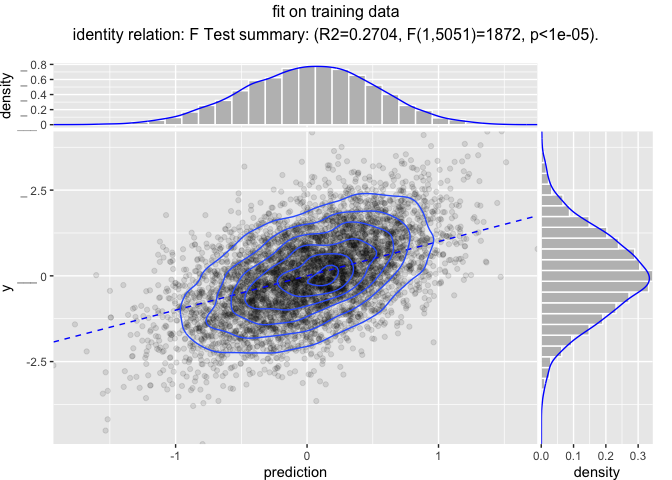
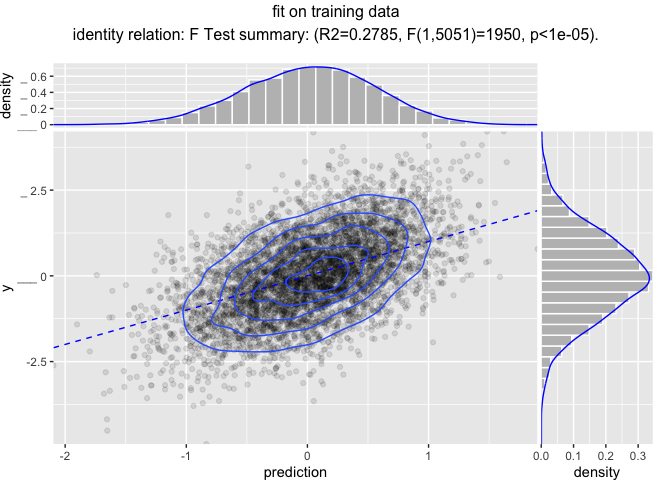
add cross-val and parallel to example

diff --git a/extras/ModelingPipelines.md b/extras/ModelingPipelines.md
@@ -25,6 +25,9 @@ library("glmnet")
 ``` r
 library("WVPlots")
 
+ncore <- parallel::detectCores()
+cl <- parallel::makeCluster(ncore)
+
 # function to make practice data
 mk_data <- function(nrows, n_var_cols, n_noise_cols) {
   d <- data.frame(y = rnorm(nrows))
@@ -66,16 +69,15 @@ pipelines work.
 This can be done as follows.
 
 ``` r
-# TODO: parallle on mkCrossFrameNExperiment?
-# TODO: search for alpha?
-
 # design a treatment plan using cross-validation methods
-cp <- vtreat::mkCrossFrameNExperiment(dTrain, vars, outcome_name)
+cp <- vtreat::mkCrossFrameNExperiment(
+  dTrain, vars, outcome_name,
+  parallelCluster = cl)
 ```
 
-    ## [1] "vtreat 1.3.3 start initial treatment design Thu Nov 22 15:51:59 2018"
-    ## [1] " start cross frame work Thu Nov 22 15:52:08 2018"
-    ## [1] " vtreat::mkCrossFrameNExperiment done Thu Nov 22 15:52:18 2018"
+    ## [1] "vtreat 1.3.3 start initial treatment design Thu Nov 22 16:35:13 2018"
+    ## [1] " start cross frame work Thu Nov 22 16:35:17 2018"
+    ## [1] " vtreat::mkCrossFrameNExperiment done Thu Nov 22 16:35:22 2018"
 
 ``` r
 # get the list of new variables
@@ -106,12 +108,46 @@ tfs <- scale(cp$crossFrame[, newvars, drop = FALSE],
              center = centering,
              scale = scaling)
 
+# build a cross-validation strategy to help us
+# search for a good alph hyper-parameter value
+cplan <- vtreat::kWayStratifiedY(
+  nrow(dTrain), 5, dTrain, dTrain[[outcome_name]])
+# convert the plan to cv.glmnet group notation
+foldid <- numeric(nrow(dTrain))
+for(i in seq_len(length(cplan))) {
+  cpi <- cplan[[i]]
+  foldid[cpi$app] <- i
+}
+
+# search for best cross-validated alpha
+alphas <- seq(0, 1, by=0.05)
+cross_scores <- vapply(
+  alphas,
+  function(alpha) {
+    model <- cv.glmnet(as.matrix(tfs), 
+                       cp$crossFrame[[outcome_name]],
+                       alpha = alpha,
+                       family = "gaussian", 
+                       standardize = FALSE,
+                       foldid = foldid)
+    index <- which(model$lambda == model$lambda.1se)[[1]]
+    score <- model$cvm[[index]]
+  }, numeric(1))
+best_i <- which(cross_scores==min(cross_scores))[[1]]
+alpha <- alphas[[best_i]]
+print(alpha)
+```
+
+    ## [1] 0.65
+
+``` r
+# re-fit model with chosen alpha
 model <- cv.glmnet(as.matrix(tfs), 
                    cp$crossFrame[[outcome_name]],
-                   alpha = 0.5,
+                   alpha = alpha,
                    family = "gaussian", 
-                   standardize = FALSE)
-
+                   standardize = FALSE,
+                   nfolds = 5)
 
 pipeline <-
   new("PartialNamedFn",
@@ -261,15 +297,15 @@ cat(format(ops))
 dTest %.>% ops %.>% head
 ```
 
-    ## [1]  0.328805547  0.017182136 -1.023561866 -0.005864751 -0.856758474
-    ## [6]  0.493458036
+    ## [1]  3.839109e-01  4.911605e-06 -1.113746e+00 -2.311193e-03 -9.336085e-01
+    ## [6]  5.399154e-01
 
 ``` r
 head(dTest$prediction)
 ```
 
-    ## [1]  0.328805547  0.017182136 -1.023561866 -0.005864751 -0.856758474
-    ## [6]  0.493458036
+    ## [1]  3.839109e-01  4.911605e-06 -1.113746e+00 -2.311193e-03 -9.336085e-01
+    ## [6]  5.399154e-01
 
 What is different is which system is holding the pipeline unevaluated.
 Earlier it was the `wrapr::UnaryFn` conventions, and now it is the
@@ -279,7 +315,11 @@ In the above example we are somewhat fighting `rquery` as `rquery` is
 intended to work only on `data.frame`s and `data.table`s, and in this
 example we are pushing around matrices and vectors (the
 `check_result_details = FALSE` settings are turning off checks that
-usually enforce types and columns.
+usually enforce types, columns, and conversions).
 
 But we now have two examples of a non-trivial modeling workflow saved as
 a serialiazble object (alternately `pipeline` and `ops`).
+
+``` r
+parallel::stopCluster(cl)
+```
